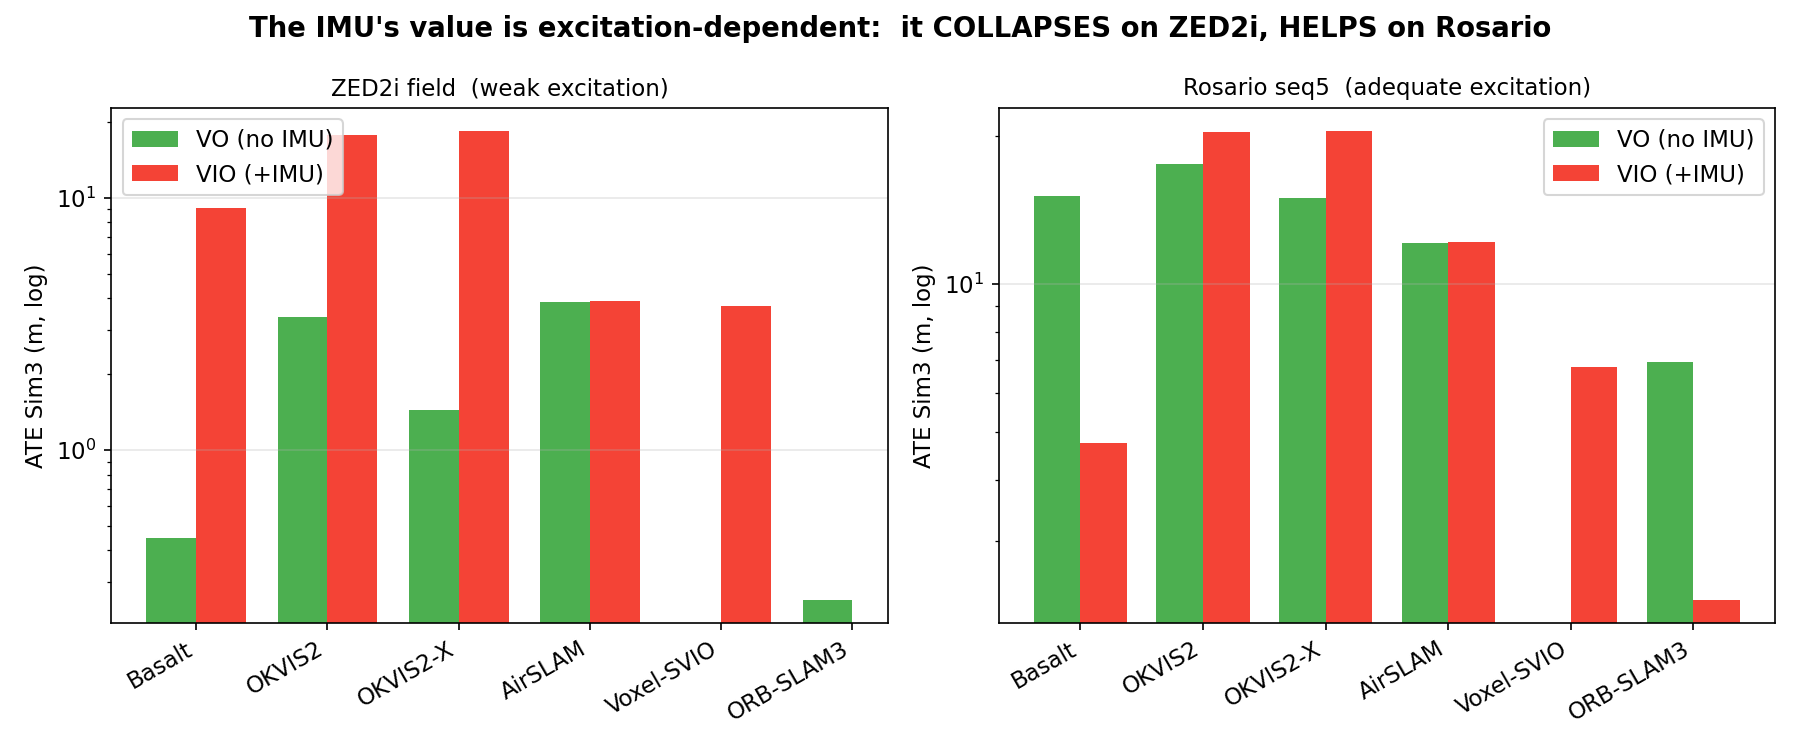
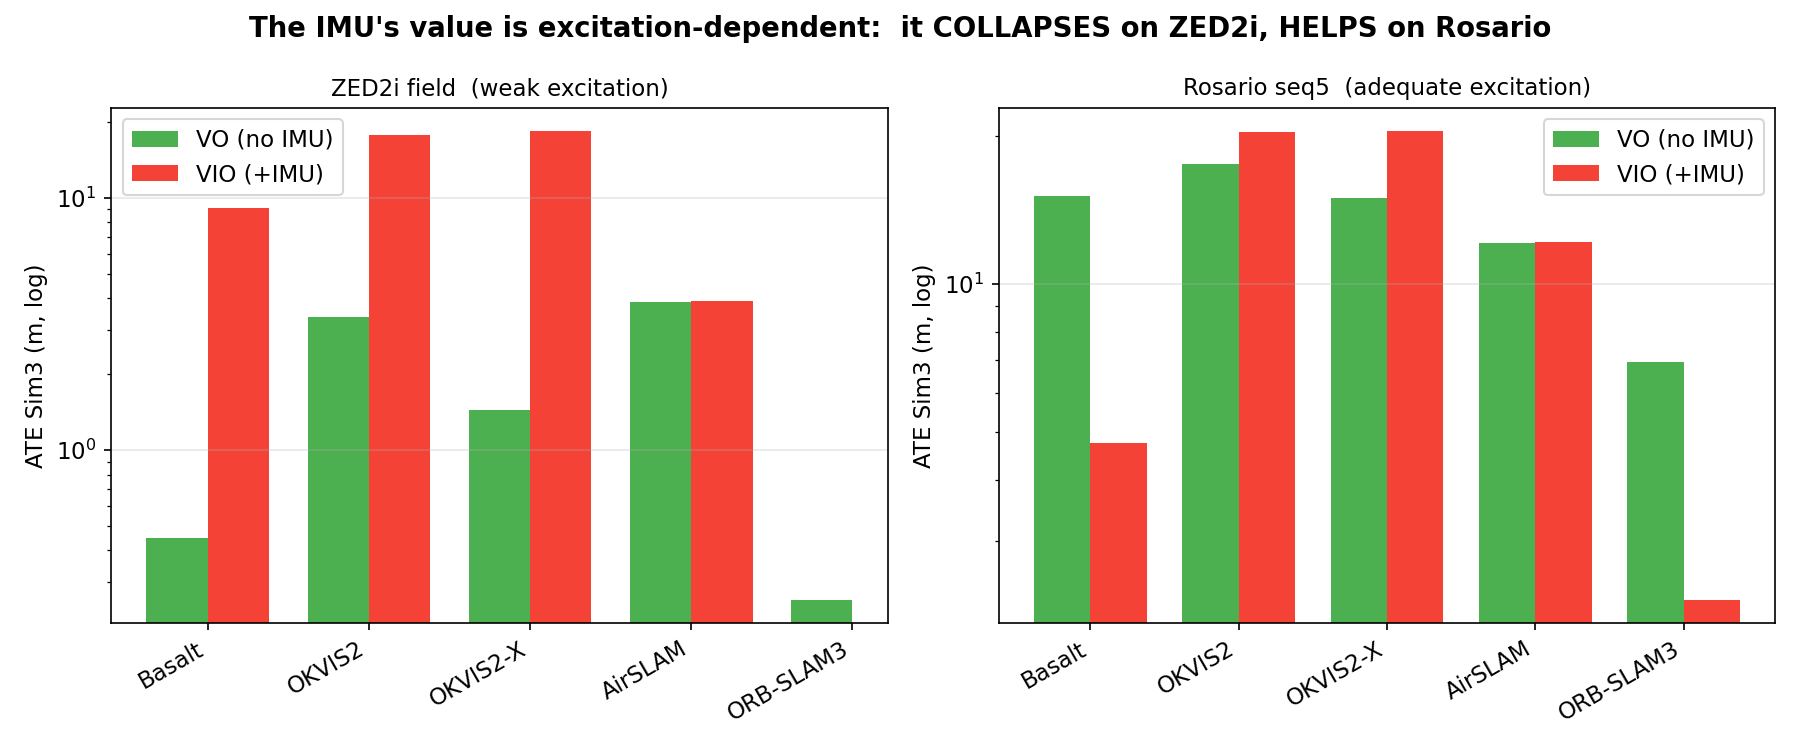
LC heatmap: drop OKVIS2-X row; excitation fig: drop Voxel-SVIO (no VO)

diff --git a/scripts/eval/make_report_figures.py b/scripts/eval/make_report_figures.py
@@ -51,7 +51,7 @@ def fig_excitation():
     VO, VIO = load_csv("vo"), load_csv("vio")
     panels = [("zed2i", "field1_110426_full_10fps_q90", "ZED2i field  (weak excitation)"),
               ("rosariov2", "sequence5", "Rosario seq5  (adequate excitation)")]
-    algos = ["basalt", "okvis2", "okvis2x", "airslam", "voxel_svio", "orbslam3"]
+    algos = ["basalt", "okvis2", "okvis2x", "airslam", "orbslam3"]  # VO+VIO only (Voxel-SVIO has no VO)
     lbl = {"basalt": "Basalt", "okvis2": "OKVIS2", "okvis2x": "OKVIS2-X", "airslam": "AirSLAM",
            "voxel_svio": "Voxel-SVIO", "orbslam3": "ORB-SLAM3"}
     fig, axes = plt.subplots(1, 2, figsize=(12, 5))
@@ -76,7 +76,7 @@ def fig_lc_mechanism():
             ("rosariov2", "sequence5", "seq5"), ("hortimulti", "strawberry02", "str02"),
             ("hortimulti", "strawberry03", "str03")]
     rows = [("dpvo", "DPV-SLAM  (proximity)"), ("ov2slam", "OV2SLAM  (iBoW)"),
-            ("okvis2", "OKVIS2  (DBoW)"), ("okvis2x", "OKVIS2-X  (DBoW)")]
+            ("okvis2", "OKVIS2  (DBoW)")]
     M = np.full((len(rows), len(cols)), np.nan)
     for i, (a, _) in enumerate(rows):
         for j, (ds, sq, _) in enumerate(cols):
@@ -100,8 +100,8 @@ def fig_lc_mechanism():
     cb.set_label("ATE change  VO → VO-LC  (%)")
     cb.ax.text(1.3, 1.0, "LC hurts", transform=cb.ax.transAxes, va="top", fontsize=8, color="#B71C1C")
     cb.ax.text(1.3, 0.0, "LC helps", transform=cb.ax.transAxes, va="bottom", fontsize=8, color="#1B5E20")
-    ax.set_title("Loop closure helps on distinctive scenes, is unreliable on crops — and no mechanism is immune\n"
-                 "green = LC helps · red = LC hurts (values >±100% clipped in colour, true % shown)", fontweight="bold", fontsize=10.5)
+    ax.set_title("Loop closure helps on distinctive scenes, is unreliable on crops:\n"
+                 "proximity always hurts; even verified (iBoW/DBoW) LC can blow up (str02)  —  green = helps, red = hurts", fontweight="bold", fontsize=10.5)
     fig.tight_layout(); p = f"{OUT}/fig_lc_mechanism.png"; fig.savefig(p); print(p)
 
 # ── FIG C: coverage — ORB fails where others complete + IMU rescue ──────────
